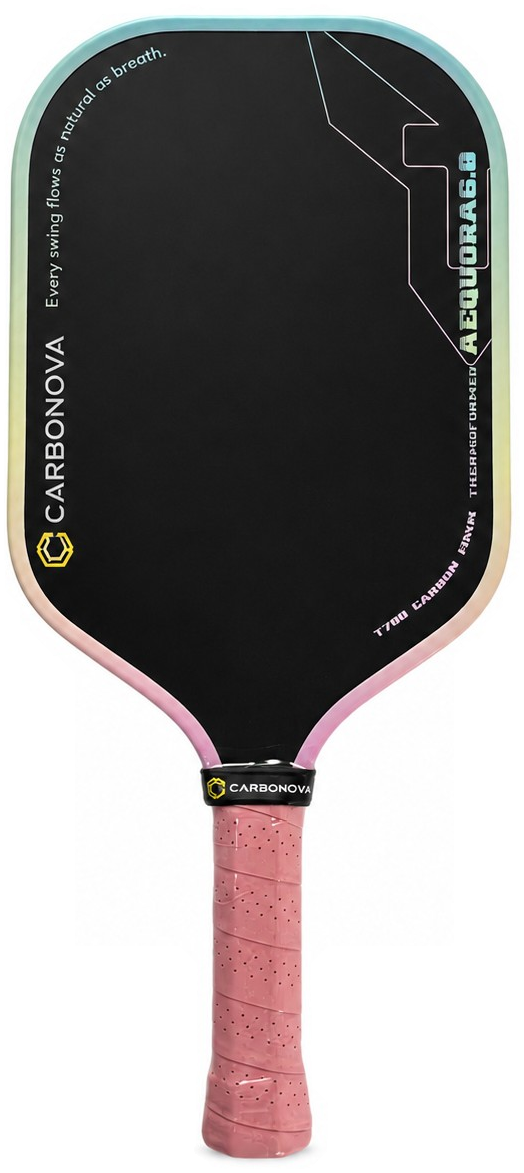
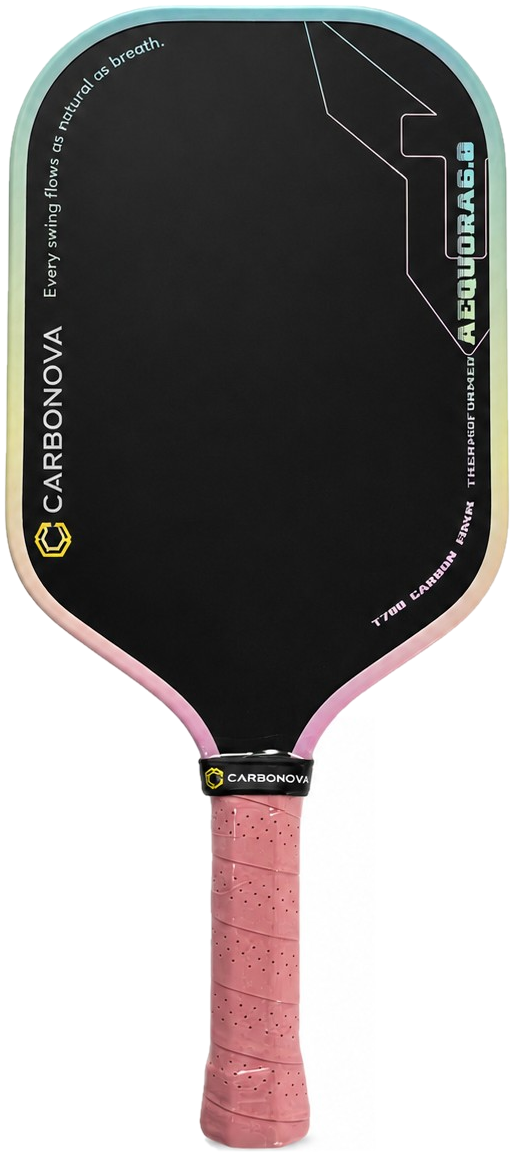
fix: remove connected white backgrounds from hero paddles

Changed region(s): [[0.0, 0.0, 0.9961, 0.9965], [0.3113, 0.5917, 0.3735, 0.6228], [0.8093, 0.2491, 0.8405, 0.2803]]

diff --git a/index.html b/index.html
@@ -40,9 +40,9 @@
   </div>
   <div class="home-hero-shade" aria-hidden="true"></div>
   <div class="home-hero-products" aria-hidden="true">
-    <img src="assets/img/hero-pickleball-red-v2.png?v=20260827" alt="" width="364" height="755" decoding="async">
-    <img src="assets/img/hero-pickleball-kevlar-v2.png?v=20260827" alt="" width="479" height="1143" decoding="async">
-    <img src="assets/img/hero-pickleball-pink-v2.png?v=20260827" alt="" width="524" height="1173" decoding="async">
+    <img src="assets/img/hero-pickleball-red-v2.png?v=20260827-clean1" alt="" width="355" height="745" decoding="async">
+    <img src="assets/img/hero-pickleball-kevlar-v2.png?v=20260827-clean1" alt="" width="479" height="1143" decoding="async">
+    <img src="assets/img/hero-pickleball-pink-v2.png?v=20260827-clean1" alt="" width="514" height="1156" decoding="async">
   </div>
   <div class="container home-hero-inner">
     <div class="home-hero-content">
